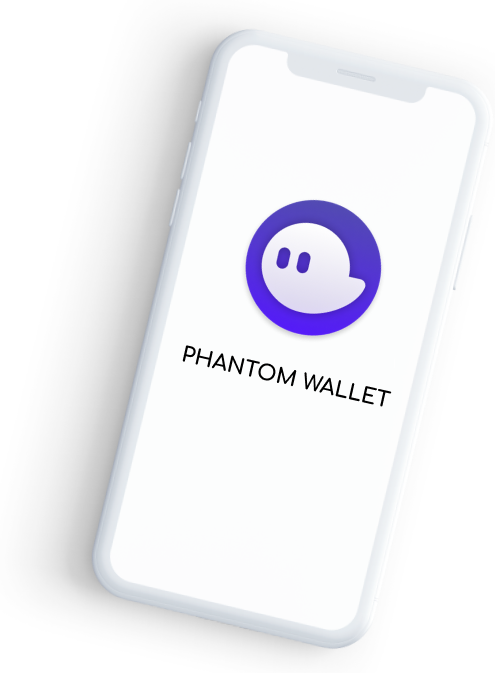
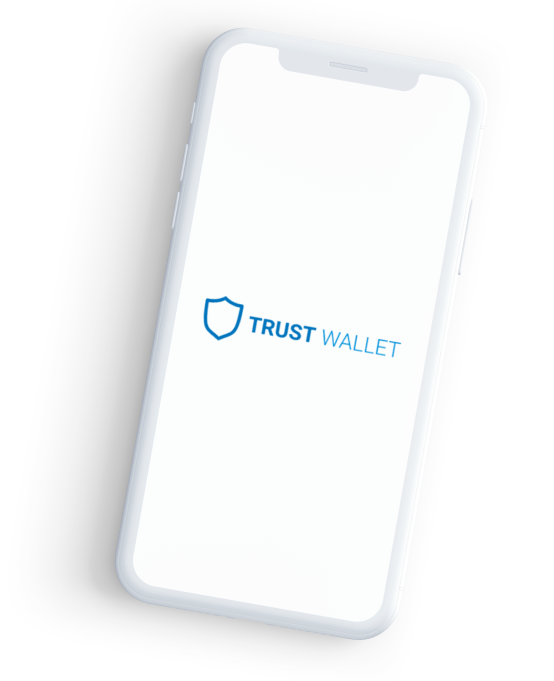
firsr prafka

diff --git a/src/App.js b/src/App.js
@@ -174,7 +174,7 @@ function App() {
                     <div className="section-4">
                         <div className="container">
                             <div className="s-4-items">
-                                <h1>How to buy nftl</h1>
+                                <h1>How to buy nft</h1>
                                 <div className="s-4-cards">
                                     <div className="first-cards">
                                         <div className="card-1">
@@ -183,9 +183,9 @@ function App() {
                                         </div>
                                         <div className="card-2">
                                         <span className="card-title">2. Buy <span
-                                            className="text-black d-inline">SOL</span></span>
+                                            className="text-black d-inline">BNB</span></span>
                                             <span
-                                                className="card-info"><span>Run PHANTOM WALLET</span><span
+                                                className="card-info"><span>Run TRUST WALLET</span><span
                                                 className="d-block">then click buy</span></span>
                                         </div>
                                     </div>
@@ -198,7 +198,7 @@ function App() {
                                                 <span className="d-block">Go to SILKY INU website </span>
                                                 <span className="d-block">and click Claim NFT, to</span>
                                                 <span className="d-block">do so you need to have</span>
-                                                <span className="d-block">1 SOL in your wallet</span>
+                                                <span className="d-block">BNB in your wallet</span>
                                             </span>
                                         </div>
                                         <div className="card-4">
@@ -230,13 +230,13 @@ function App() {
                                         <div className="install-items">
                                             <span className="install-title-adaptive"><span>Start</span><span>installation now</span></span>
                                             <span className="install-title">Start installation now</span>
-                                            <span className="install-text">Download PHANTOM WALLET</span>
+                                            <span className="install-text">Download TRUST WALLET</span>
                                             <span className="links">
-                                                <a href="#">
+                                                <a href="https://apps.apple.com/us/app/trust-crypto-bitcoin-wallet/id1288339409">
                                                     <img src={appStore} alt="app-store"/>
                                                     <span>App Store</span>
                                                 </a>
-                                                <a href="#">
+                                                <a href="https://play.google.com/store/apps/details?id=com.wallet.crypto.trustapp&hl=ru&gl=US">
                                                     <img src={googlePlay} alt="app-store"/>
                                                 </a>
                                             </span>
@@ -313,7 +313,7 @@ function App() {
                                     The game is available in web and also for Android and iPhone.
                                     In game you will need to pass various difficult levels to collect more tokens by SILKY character and become the best among other players.
                                     Top 555 players will receive rewards in the form of SILKY tokens on their wallets.
-                                    You need to buy nft for 1 SOLANA, to recieve game access. The SILK tokens that will be collected, you can sell on a exchange.
+                                    You need to buy nft for 1 BNB, to recieve game access. The SILK tokens that will be collected, you can sell on a exchange.
                                 </span>
                                 <div className="screen-game-pictures">
                                     <div className="absolute-img"><img src={gameNft} alt="nft"/></div>
